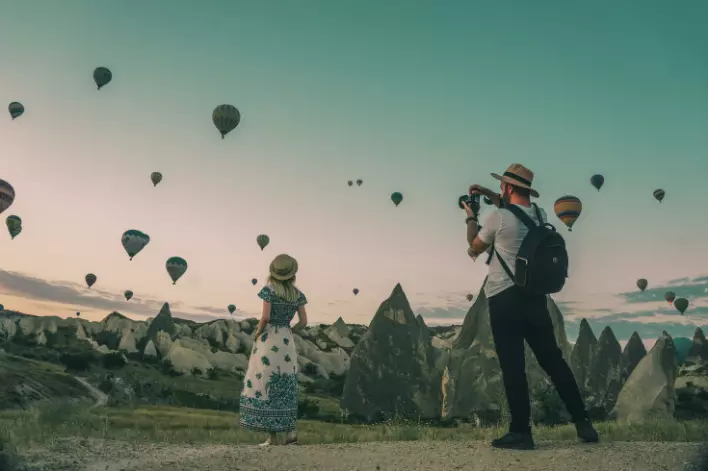
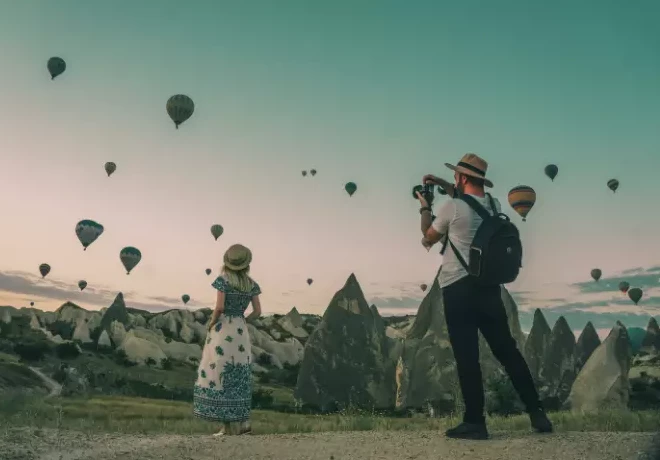
Responsive Layout
feat: Added media queries for a responsive layout on screens with a max-width of 768px.

bug: Max-with styling removed on the footer as it has a default styling.

bug: All the images were replaced with cropped versions of the same size so that they look the same and still stay responsive.

diff --git a/styles.css b/styles.css
@@ -9,6 +9,7 @@ body {
 article img,
 article.featured img {
 	width: 100%;
+
 	border: 4px solid #fff;
 	border-radius: 8px;
 }
@@ -77,7 +78,6 @@ article h3 {
 
 footer {
 	text-align: center;
-	max-width: 100vw;
 	margin: 2.5em auto;
 	border-top: 1px solid #bbc7c7;
 	bottom: 0;
@@ -132,9 +132,19 @@ footer a:focus {
 	}
 }
 
-/* @media (max-width: 768px) {
+@media (max-width: 768px) {
 	article,
 	article.featured {
 		display: block;
 	}
-} */
+
+	article.featured img {
+		width: 100%;
+	}
+
+	article.featured h2,
+	article.featured p {
+		text-align: left;
+		padding: 0;
+	}
+}
